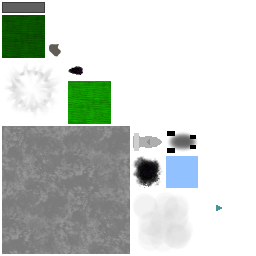
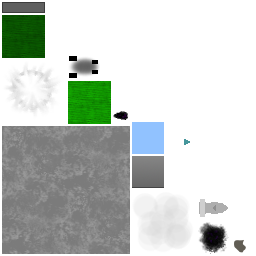
Updated

diff --git a/core/src/info/quadtree/ld41/LD41.java b/core/src/info/quadtree/ld41/LD41.java
@@ -30,7 +30,7 @@ public class LD41 extends ApplicationAdapter implements InputProcessor {
 	public BitmapFont defaultFont;
 	public BitmapFont bigFont;
 
-	public static final boolean CHEATS = true;
+	public static final boolean CHEATS = false;
     public static final boolean DEBUG_PHYSICS = false;
 
 	public static final boolean MUSIC = true;
@@ -49,6 +49,7 @@ public class LD41 extends ApplicationAdapter implements InputProcessor {
 	public Sprite oilBomb;
 	public Sprite fragment;
 	public Sprite smoke;
+	public Sprite gradient;
 
 	public List<Sound> explosionSounds = new ArrayList<>();
 
@@ -98,6 +99,7 @@ public class LD41 extends ApplicationAdapter implements InputProcessor {
 		oilBomb = atlas.createSprite("oil_bomb");
 		fragment = atlas.createSprite("fragment1");
 		smoke = atlas.createSprite("smoke2");
+		gradient = atlas.createSprite("gradient");
 
 		for (int i=0;i<4;++i){
 			explosionSounds.add(Gdx.audio.newSound(Gdx.files.internal("exp" + i + ".wav")));
@@ -162,12 +164,15 @@ public class LD41 extends ApplicationAdapter implements InputProcessor {
 		batch.begin();
 
 		if (showingTitleScreen){
-			Util.drawTextCentered("Last Car Standing", bigFont, Gdx.graphics.getWidth() / 2, Gdx.graphics.getHeight() / 2 + 350);
-			Util.drawTextCentered("Outrun the wall of doom and be the last car standing!", defaultFont, Gdx.graphics.getWidth() / 2, Gdx.graphics.getHeight() / 2 + 220);
-			Util.drawTextCentered("WASD/Arrow Keys to move, Space to shoot oil bombs, R to restart", defaultFont, Gdx.graphics.getWidth() / 2, Gdx.graphics.getHeight() / 2 + 190);
-			Util.drawTextCentered("The bomb will auto-target at the car in the lead,", defaultFont, Gdx.graphics.getWidth() / 2, Gdx.graphics.getHeight() / 2 + 160);
-			Util.drawTextCentered("and is only effective against cars going fast.", defaultFont, Gdx.graphics.getWidth() / 2, Gdx.graphics.getHeight() / 2 + 130);
-			Util.drawTextCentered("Press any key to start", defaultFont, Gdx.graphics.getWidth() / 2, Gdx.graphics.getHeight() / 2 + 70);
+			batch.draw(LD41.s.gradient, 0, Gdx.graphics.getHeight() - 350, Gdx.graphics.getWidth(), 350);
+
+			int y = 400;
+			Util.drawTextCentered("Last Car Standing", bigFont, Gdx.graphics.getWidth() / 2, Gdx.graphics.getHeight() / 2 + y);
+			Util.drawTextCentered("Outrun the wall of doom and be the last car standing!", defaultFont, Gdx.graphics.getWidth() / 2, Gdx.graphics.getHeight() / 2 + (y -= 130));
+			Util.drawTextCentered("WASD/Arrow Keys to move, Space to shoot oil bombs, R to restart", defaultFont, Gdx.graphics.getWidth() / 2, Gdx.graphics.getHeight() / 2 + (y -= 30));
+			Util.drawTextCentered("The bomb will auto-target at the car in the lead,", defaultFont, Gdx.graphics.getWidth() / 2, Gdx.graphics.getHeight() / 2 + (y -= 30));
+			Util.drawTextCentered("and is only effective against cars going fast.", defaultFont, Gdx.graphics.getWidth() / 2, Gdx.graphics.getHeight() / 2 + (y -= 30));
+			Util.drawTextCentered("Press any key to start", defaultFont, Gdx.graphics.getWidth() / 2, Gdx.graphics.getHeight() / 2 + (y -= 60));
 
 			Util.drawTextCentered("Made by Quadtree for Ludum Dare 41", defaultFont, Gdx.graphics.getWidth() - 290, 45);
 		}
@@ -185,7 +190,7 @@ public class LD41 extends ApplicationAdapter implements InputProcessor {
 		if (CHEATS) defaultFont.draw(batch, "FPS: " + Gdx.graphics.getFramesPerSecond(), 40, 40);
 
 		//defaultFont.draw(batch, "FPS: " + Gdx.graphics.getFramesPerSecond() + " Position: " + gs.getPlayerPosition() + "/" + gs.getCarsLeft() + " Speed: " + (int)(gs.pcCar != null ? gs.pcCar.body.getLinearVelocity().len() : 0), 40, 40);
-		if (gs.pcCar != null) {
+		if (gs.pcCar != null && !showingTitleScreen) {
 			defaultFont.draw(batch, Objects.toString((int) (gs.pcCar != null ? gs.pcCar.body.getLinearVelocity().len() : 0)), Gdx.graphics.getWidth() - 40, Gdx.graphics.getHeight() - 5);
 			defaultFont.draw(batch, gs.getPlayerPosition() + "/" + gs.getCarsLeft(), 5, Gdx.graphics.getHeight() - 5);
 		}
